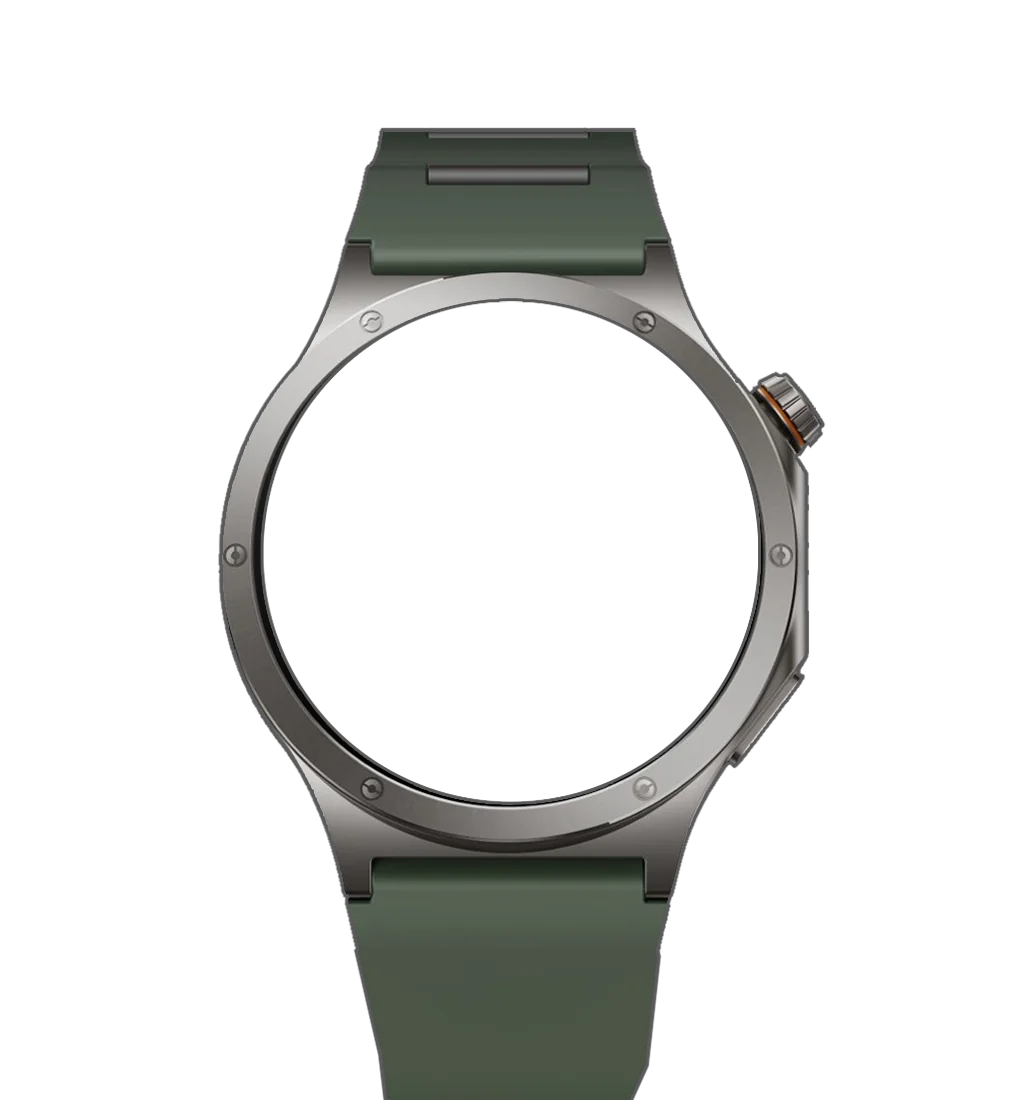
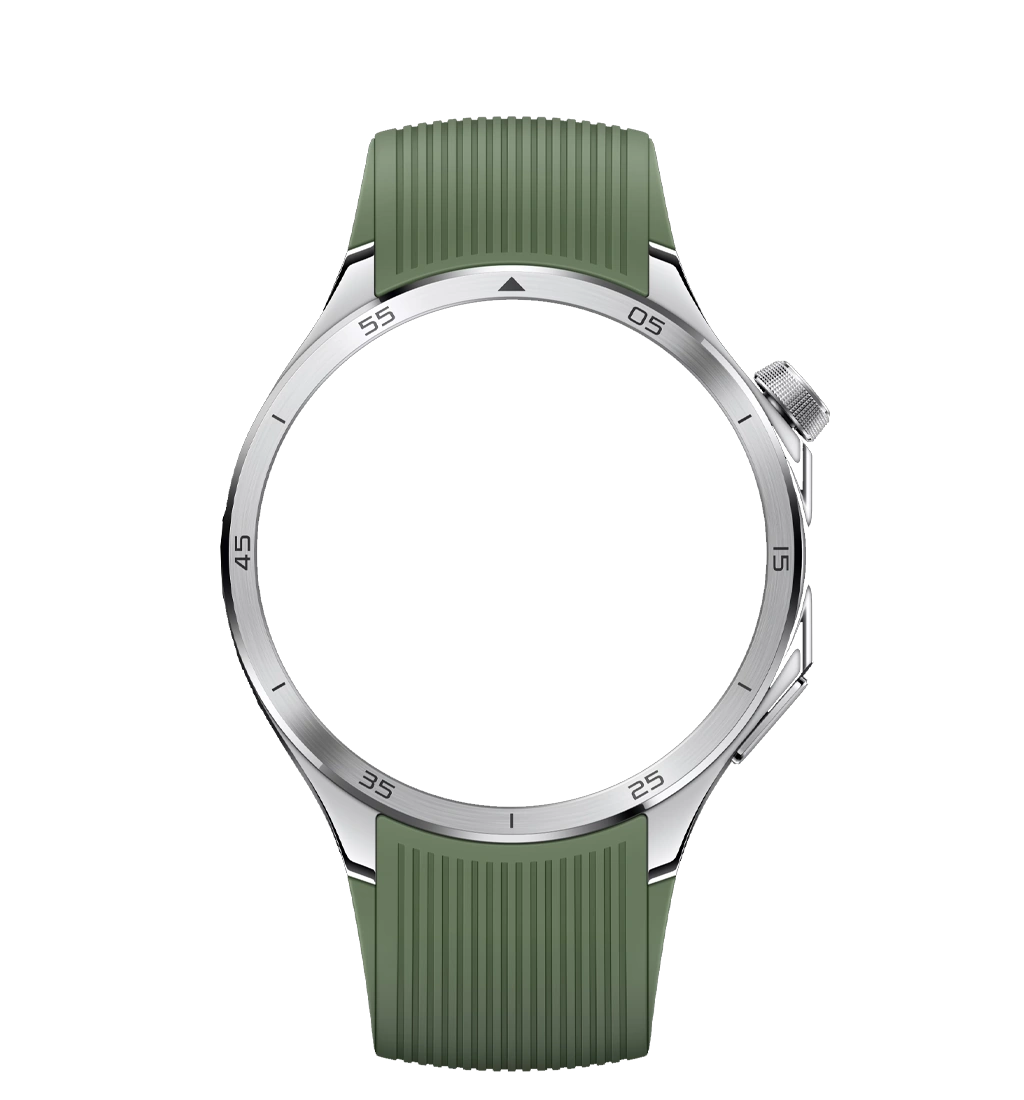
feat(hero): update OnePlus watch frame from plusone.png, generate webp, and update title to OnePlus Watch

Changed region(s): [[0.1875, 0.0927, 0.8125, 1.0]]

diff --git a/index.html b/index.html
@@ -3177,7 +3177,7 @@
               <span class="model-name-short">Pixel</span>
             </button>
             <button type="button" class="model-pill" data-model="oneplus" onclick="setHeroWatchModel('oneplus')" role="tab" aria-selected="false">
-              <span class="model-name-full">OnePlus Watch 2</span>
+              <span class="model-name-full">OnePlus Watch</span>
               <span class="model-name-short">OnePlus</span>
             </button>
           </div>
@@ -3808,10 +3808,10 @@
       },
       oneplus: {
         id: 'oneplus',
-        name: 'OnePlus Watch 2',
+        name: 'OnePlus Watch',
         frame: 'images/watch_frame_oneplus.webp',
-        faceSize: '48.5%',
-        bgSize: '51.5%',
+        faceSize: '49.8%',
+        bgSize: '53.0%',
         scale: 1.03
       }
     };
